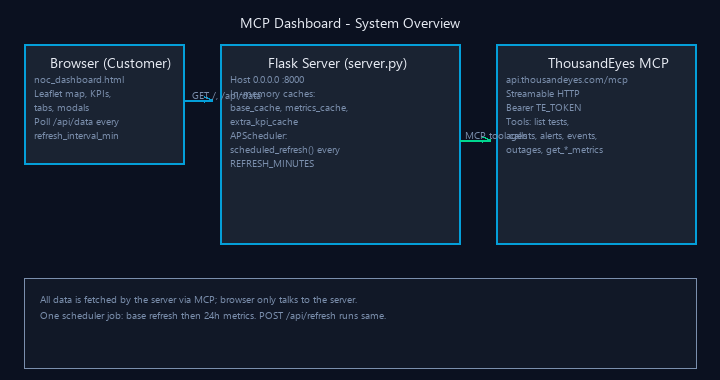
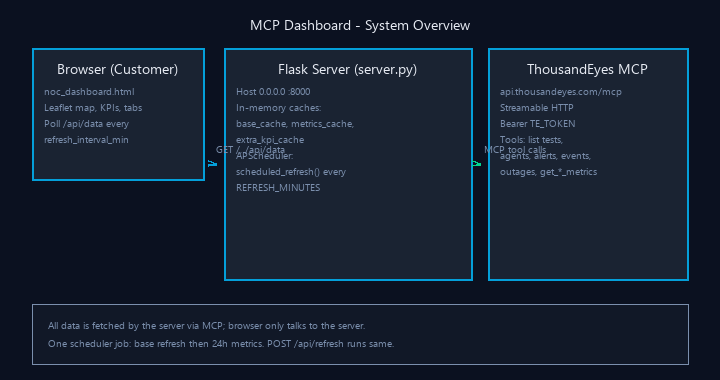
Fix overlapping text in diagram

diff --git a/scripts/generate_diagrams.py b/scripts/generate_diagrams.py
@@ -66,45 +66,71 @@ def draw_arrow(draw, x1, y1, x2, y2, color=BOX_BORDER, width=2):
         draw.line([(x2, y2), (ax, ay)], fill=color, width=width)
 
 
-def draw_box(draw, x, y, w, h, label: str, lines: list[str], font, font_small):
-    """Draw rounded rect and text."""
+def _text_bbox(draw, text: str, font) -> tuple[int, int, int, int]:
+    """Return (left, top, right, bottom) for text."""
+    return draw.textbbox((0, 0), text, font=font)
+
+
+def draw_box(draw, x, y, w, h, label: str, lines: list[str], font, font_small, line_height: int = 16):
+    """Draw rounded rect and text; center label, stack lines with spacing."""
     draw.rectangle([x, y, x + w, y + h], outline=BOX_BORDER, fill=BOX_BG, width=2)
-    draw.text((x + w // 2 - len(label) * 3, y + 8), label, fill=TEXT, font=font)
-    yy = y + 28
+    # Center the label
+    lb = _text_bbox(draw, label, font)
+    label_w = lb[2] - lb[0]
+    draw.text((x + (w - label_w) // 2, y + 10), label, fill=TEXT, font=font)
+    # Body lines with consistent spacing
+    yy = y + 36
     for line in lines[:8]:
-        draw.text((x + 10, yy), line[:40], fill=MUTED, font=font_small)
-        yy += 14
+        draw.text((x + 12, yy), line[:38], fill=MUTED, font=font_small)
+        yy += line_height
 
 
 def diagram_01_system_overview(draw, font, font_small, w, h):
     """System overview: Browser, Flask, ThousandEyes MCP."""
     draw.rectangle([0, 0, w, h], fill=BG)
-    draw.text((w // 2 - 120, 12), "MCP Dashboard - System Overview", fill=TEXT, font=font)
+    title = "MCP Dashboard - System Overview"
+    tb = _text_bbox(draw, title, font)
+    draw.text((w // 2 - (tb[2] - tb[0]) // 2, 14), title, fill=TEXT, font=font)
+    # Three boxes with clear gaps: Browser | gap | Flask | gap | MCP
+    bw, bh = 172, 132
+    bx1, bx2, bx3 = 32, 224, 488
     # Browser
-    draw_box(draw, 24, 44, 160, 120, "Browser (Customer)", [
-        "noc_dashboard.html", "Leaflet map, KPIs,", "tabs, modals",
-        "Poll /api/data every", "refresh_interval_min"
+    draw_box(draw, bx1, 48, bw, bh, "Browser (Customer)", [
+        "noc_dashboard.html",
+        "Leaflet map, KPIs, tabs",
+        "Poll /api/data every",
+        "refresh_interval_min",
     ], font, font_small)
     # Flask
-    draw_box(draw, 220, 44, 240, 200, "Flask Server (server.py)", [
-        "Host 0.0.0.0 :8000", "In-memory caches:",
-        "base_cache, metrics_cache,", "extra_kpi_cache",
-        "APScheduler:", "scheduled_refresh() every", "REFRESH_MINUTES"
+    draw_box(draw, bx2, 48, 248, 232, "Flask Server (server.py)", [
+        "Host 0.0.0.0 :8000",
+        "In-memory caches:",
+        "base_cache, metrics_cache,",
+        "extra_kpi_cache",
+        "APScheduler:",
+        "scheduled_refresh() every",
+        "REFRESH_MINUTES",
     ], font, font_small)
     # MCP
-    draw_box(draw, 496, 44, 200, 200, "ThousandEyes MCP", [
-        "api.thousandeyes.com/mcp", "Streamable HTTP", "Bearer TE_TOKEN",
-        "Tools: list tests,", "agents, alerts, events,", "outages, get_*_metrics"
+    draw_box(draw, bx3, 48, 200, 232, "ThousandEyes MCP", [
+        "api.thousandeyes.com/mcp",
+        "Streamable HTTP",
+        "Bearer TE_TOKEN",
+        "Tools: list tests,",
+        "agents, alerts, events,",
+        "outages, get_*_metrics",
     ], font, font_small)
-    # Arrows
-    draw_arrow(draw, 184, 100, 212, 100)
-    draw.text((192, 88), "GET /, /api/data", fill=MUTED, font=font_small)
-    draw_arrow(draw, 460, 140, 490, 140, GREEN)
-    draw.text((465, 128), "MCP tool calls", fill=MUTED, font=font_small)
-    # Legend
-    draw.rectangle([24, 278, w - 24, h - 12], fill=(17, 24, 39), outline=MUTED)
-    draw.text((40, 292), "All data is fetched by the server via MCP; browser only talks to the server.", fill=MUTED, font=font_small)
-    draw.text((40, 308), "One scheduler job: base refresh then 24h metrics. POST /api/refresh runs same.", fill=MUTED, font=font_small)
+    # Arrows between boxes (centered vertically in box)
+    mid_y = 48 + 232 // 2
+    draw_arrow(draw, bx1 + bw + 4, mid_y, bx2 - 8, mid_y)
+    draw.text((bx1 + bw + 12, mid_y - 22), "GET /, /api/data", fill=MUTED, font=font_small)
+    draw_arrow(draw, bx2 + 248 + 4, mid_y, bx3 - 8, mid_y, GREEN)
+    draw.text((bx2 + 248 + 12, mid_y - 22), "MCP tool calls", fill=MUTED, font=font_small)
+    # Legend below boxes with padding
+    leg_y = 48 + 232 + 24
+    draw.rectangle([32, leg_y, w - 32, h - 16], fill=(17, 24, 39), outline=MUTED)
+    draw.text((48, leg_y + 14), "All data is fetched by the server via MCP; browser only talks to the server.", fill=MUTED, font=font_small)
+    draw.text((48, leg_y + 14 + 18), "One scheduler job: base refresh then 24h metrics. POST /api/refresh runs same.", fill=MUTED, font=font_small)
 
 
 def diagram_02_mcp_flow(draw, font, font_small, w, h):
